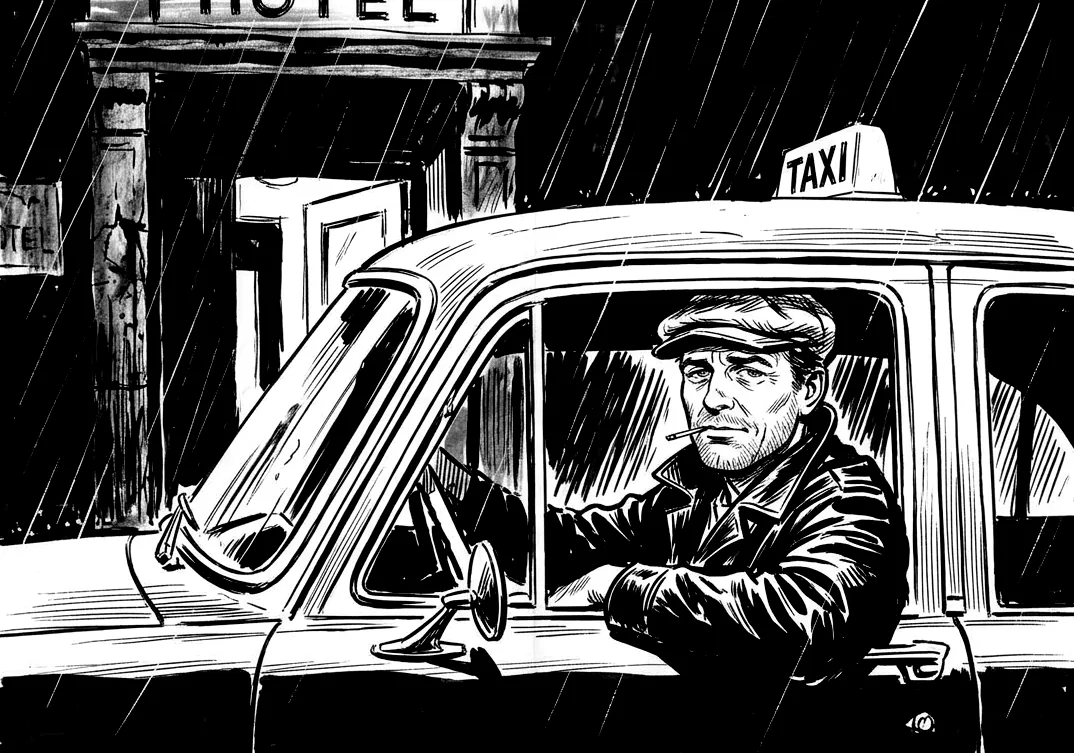
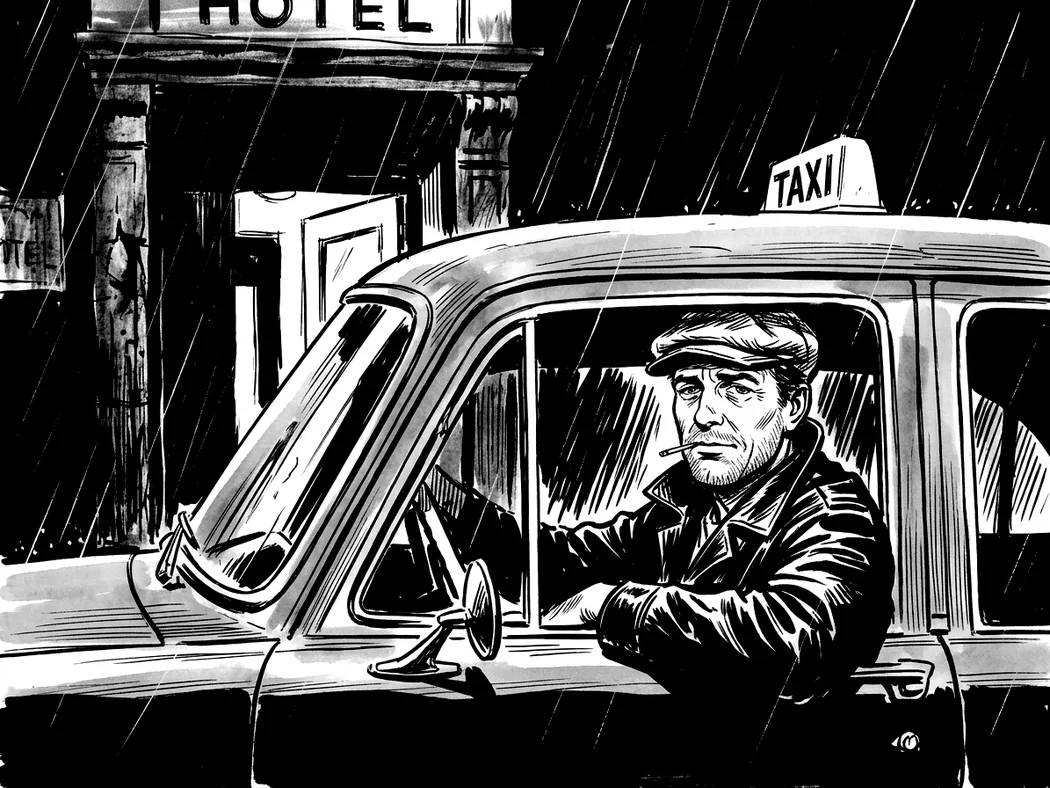
Rita om taxichaufförens rollbild i den nya stilen
Samma motiv som förut, huvudet i normal storlek (Jonas 2026-11-15).
Advokaten behålls som förut.

Claude-Session: https://claude.ai/code/session_01X82C4AptUEE9LHKngPSzUq

diff --git a/src/scenes/sceneImages.js b/src/scenes/sceneImages.js
@@ -99,7 +99,7 @@ export const SCENE_IMAGES = /** @type {const} */ ({
   roleCitizenWoman: { src: roleCitizenWoman, alt: 'En kvinna i sjalett och kappa står vid sin ytterdörr i regnet med handen på dörrknoppen och ser oroligt bakåt.', position: '45% 30%' },
   roleCitizenMan: { src: roleCitizenMan, alt: 'En man i keps och rock står vid sin ytterdörr i regnet med handen på dörrknoppen och ser oroligt åt sidan.', position: '45% 30%' },
   roleTaxiDriverWoman: { src: roleTaxiDriverWoman, alt: 'En taxichaufför i skärmmössa och skinnjacka lutar sig ut genom fönstret på en taxi en regnig natt utanför ett hotell.', position: '100% 30%' },
-  roleTaxiDriverMan: { src: roleTaxiDriverMan, alt: 'En taxichaufför i keps med en cigarett i munnen lutar sig ut genom bilrutan en regnig natt utanför ett hotell.', position: '85% 30%' },
+  roleTaxiDriverMan: { src: roleTaxiDriverMan, alt: 'En taxichaufför i keps och skinnjacka med en cigarett i munnen sitter i sin taxi med armen på dörren en regnig natt utanför ett hotell.', position: '70% 40%' },
   roleWindowWatcherWoman: { src: roleWindowWatcherWoman, alt: 'En kvinna i morgonrock och papiljotter håller undan gardinen och tittar ut genom sitt fönster mot oss.', position: '75% 30%' },
   roleWindowWatcherMan: { src: roleWindowWatcherMan, alt: 'En äldre man med glasögonen uppskjutna i pannan och en kikare i handen håller undan gardinen och tittar ut genom sitt fönster mot oss.', position: '75% 30%' },
   roleBartenderWoman: { src: roleBartenderWoman, alt: 'En bartender i väst och fluga ställer fram en cocktail på bardisken, med flaskor bakom sig.', position: '100% 30%' },

diff --git a/docs/bildsmak.md b/docs/bildsmak.md
@@ -335,6 +335,11 @@ en regel.
   Fönstertittaren var bra men skulle "stå på insidan av fönstret och titta
   ut", så båda ses nu utifrån genom rutan ("Mycket bra", "Perfekt").
   Sedan beskurna tätare kring fönstret ("zooma in lite").
+- 2026-11-15, `roll-advokat-man` omritad i den nya stilen med den gamla
+  bilden som referens: "Den gamla advokaten var mycket bättre",
+  "kavajen blir kladdig". Kritstrecksränder blir kladdiga med lösa
+  penseldrag; den gamla bilden behålls. `roll-taxichauffor-man`: "huvudet är
+  en aning för stort", "inte litet, men normal".
 
 ## Bilder att byta
 
